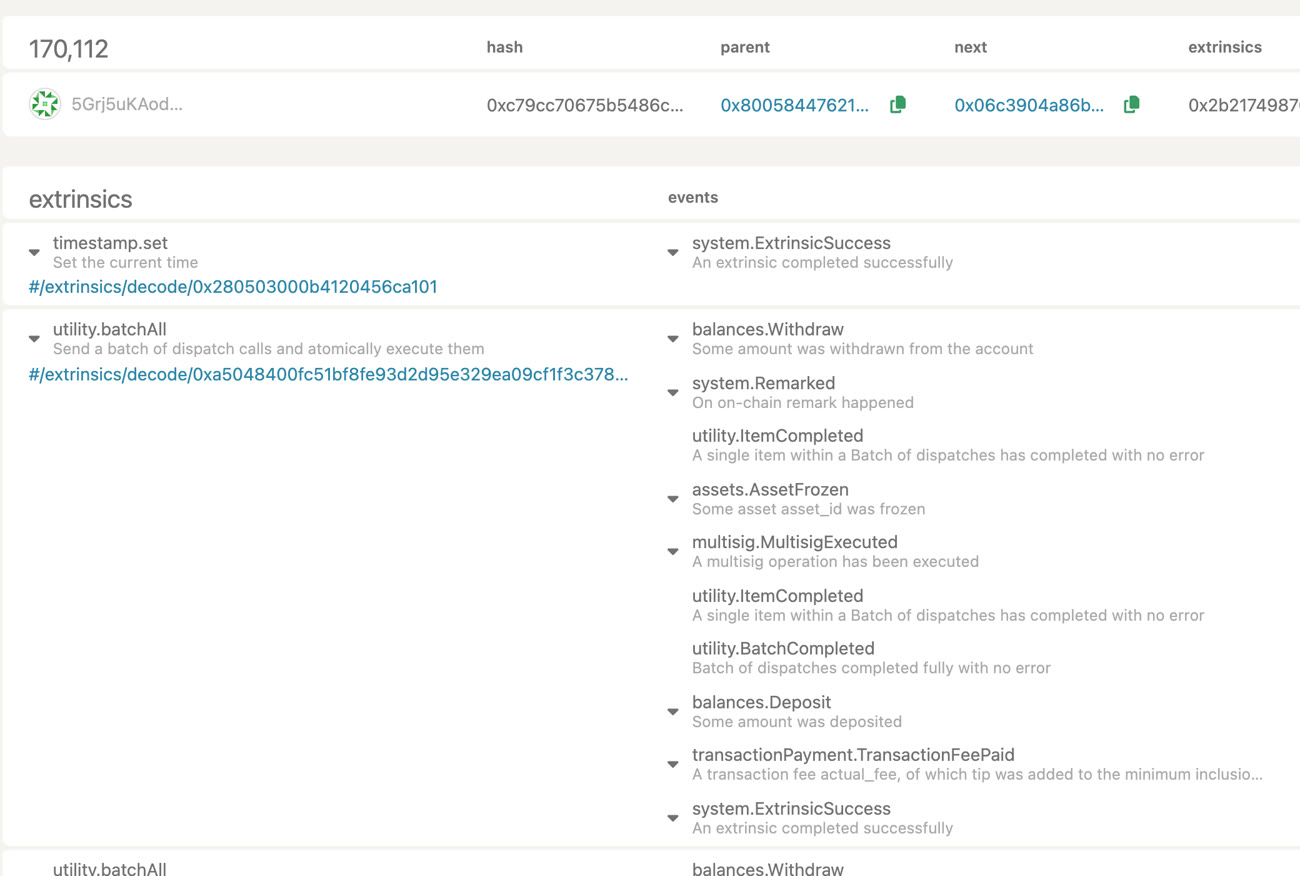
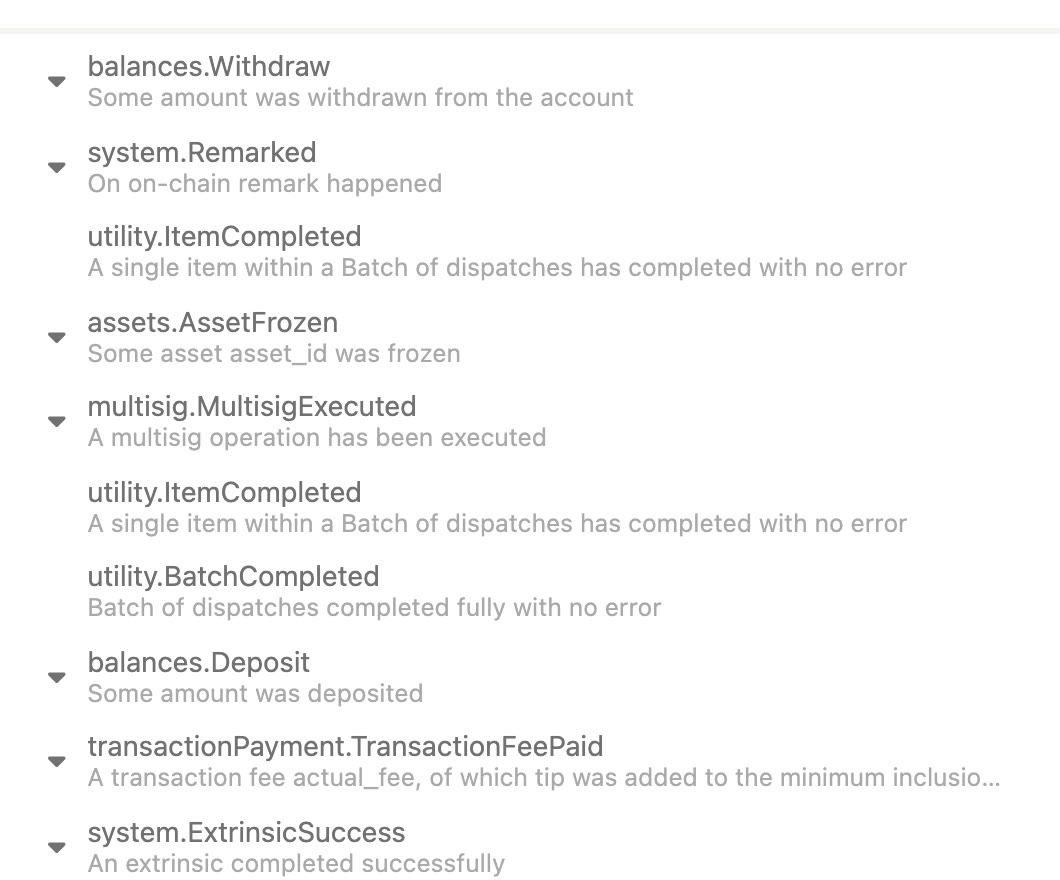
pages: QA pass 2 from main 32086f3

diff --git a/index.html b/index.html
@@ -45,6 +45,7 @@
   --ease: cubic-bezier(.16, 1, .3, 1);
   --short: 76px;      /* the shortfall band: 31.20 of 104.00 drained */
   --ringw: 480px;
+  --bleed: max(0px, calc((100vw - 1240px) / 2 - 12px));
 }
 *, *::before, *::after { box-sizing: border-box; margin: 0; padding: 0; }
 html { background: var(--bg); color: var(--ink); font: 400 17px/1.6 var(--font-body); -webkit-font-smoothing: antialiased;
@@ -65,6 +66,7 @@ code { font-size: .86em; color: var(--ink); overflow-wrap: anywhere; }
 .label { font: 500 12px/1.4 var(--font-data); letter-spacing: .14em; text-transform: uppercase; color: var(--muted); }
 h2 { font: 700 clamp(34px, 4.1vw, 58px)/.98 var(--font-display); text-transform: uppercase; letter-spacing: .005em; text-wrap: balance; }
 h2 em { font-style: normal; color: var(--after); }
+.nw { white-space: nowrap; }
 .lede { max-width: 38em; color: var(--prose); font-size: 19px; margin-top: 18px; }
 
 /* ---------- hull: the hero ---------- */
@@ -101,11 +103,11 @@ h1 em { font-style: normal; color: var(--after); display: inline-block; text-sha
 .fine { margin-top: 10px; font: 400 13px/1.4 var(--font-data); color: var(--muted); }
 .cta { display: flex; flex-wrap: wrap; gap: 12px; margin: 28px 0 18px; }
 .strip { font: 400 13px/1.5 var(--font-data); color: var(--muted); padding-bottom: 30px; }
-.ringbox { position: relative; width: 100%; justify-self: end; }
+.ringbox { position: relative; width: calc(100% + var(--bleed)); margin-right: calc(-1 * var(--bleed)); justify-self: end; }
 .ringbox svg { display: block; width: 100%; height: auto; overflow: visible; }
-.above .ringbox { align-self: stretch; display: flex; flex-direction: column; justify-content: space-between; gap: 28px; padding-top: 58px; }
+.above .ringbox { align-self: stretch; display: flex; flex-direction: column; justify-content: space-between; gap: 28px; padding-top: 44px; }
 .stamp { padding: 4px 0 4px 22px; border-left: 4px solid var(--after); }
-.stamp b { display: block; font: 700 clamp(44px, 4.6vw, 70px)/.95 var(--font-display); color: var(--after); letter-spacing: .02em; text-shadow: 0 0 30px rgba(255,91,46,.28); }
+.stamp b { display: block; font: 700 clamp(44px, 5vw, 78px)/.95 var(--font-display); color: var(--after); letter-spacing: .02em; text-shadow: 0 0 30px rgba(255,91,46,.28); }
 .stamp span { display: block; margin-top: 10px; font: 400 13px/1.5 var(--font-data); color: var(--prose); overflow-wrap: anywhere; }
 .stamp span + span { margin-top: 2px; color: var(--muted); }
 
@@ -136,7 +138,7 @@ h1 em { font-style: normal; color: var(--after); display: inline-block; text-sha
 .mark.res { top: calc(var(--short) + 14px); color: var(--prose); }
 .mark.res b { color: var(--crest); }
 .replay { position: absolute; right: 0; top: calc(var(--short) + 78px); font: 500 12px/1 var(--font-data); letter-spacing: .1em; text-transform: uppercase;
-  color: var(--muted); background: none; border: 1px solid var(--rule); padding: 8px 12px; cursor: pointer; transition: color .2s, border-color .2s; }
+  color: var(--prose); background: none; border: 1px solid var(--rule); padding: 8px 12px; cursor: pointer; transition: color .2s, border-color .2s; }
 .replay:hover { color: var(--ink); border-color: var(--hull); }
 .readings { padding-top: calc(var(--short) + 58px); }
 .readings .label { color: var(--prose); margin-bottom: 22px; }
@@ -147,7 +149,7 @@ h1 em { font-style: normal; color: var(--after); display: inline-block; text-sha
 .rx b i { font-style: normal; }
 .rx b small { font-size: .55em; letter-spacing: .02em; }
 .rx span { display: block; margin-top: 12px; font-size: 14.5px; line-height: 1.45; color: var(--prose); }
-.rx code { display: block; margin-top: 10px; font-size: 11.5px; color: var(--muted); }
+.rx code { display: block; margin-top: 10px; font-size: 11.5px; color: var(--prose); opacity: .85; }
 
 /* the orchestrated load: the water drains, the gate snaps, the line dies, the headline stops */
 @keyframes rise { from { opacity: 0; transform: translateY(14px); } }
@@ -199,7 +201,7 @@ section { position: relative; }
 .frame .bar { display: flex; align-items: center; gap: 8px; padding: 10px 14px; border-bottom: 1px solid var(--rule); font: 400 12px/1.2 var(--font-data); color: var(--muted); min-width: 0; }
 .frame .bar i { width: 10px; height: 10px; border-radius: 50%; background: var(--rule); flex: none; }
 .shot { position: relative; display: block; }
-.shot .hl { position: absolute; left: 51.2%; top: 53.8%; width: 22%; height: 7%; border: 2px solid var(--after); box-shadow: 0 0 0 4px rgba(255,91,46,.18); pointer-events: none; }
+.shot .hl { position: absolute; left: 6%; top: 33.6%; width: 41%; height: 8.8%; border: 2px solid var(--after); box-shadow: 0 0 0 4px rgba(255,91,46,.18); pointer-events: none; }
 .frame .bar span { margin-left: 8px; overflow: hidden; text-overflow: ellipsis; white-space: nowrap; }
 figcaption { margin-top: 12px; font-size: 14px; color: var(--muted); }
 figcaption .trip { color: #FFB49E; font: 500 .92em var(--font-data); }
@@ -237,7 +239,7 @@ figcaption .trip { color: #FFB49E; font: 500 .92em var(--font-data); }
 .card .chip { margin-right: 6px; }
 
 /* ---------- who: the users and the path ---------- */
-.who { padding: 112px 0 104px; background: linear-gradient(180deg, var(--bg), #0A2131); border-top: 1px solid var(--rule); }
+.who { padding: 112px 0 88px; background: linear-gradient(180deg, var(--bg), #0A2131); border-top: 1px solid var(--rule); }
 .users { display: grid; grid-template-columns: repeat(2, minmax(0, 1fr)); gap: 48px; margin-top: 48px; max-width: 1100px; }
 .users p { font-size: 20px; line-height: 1.5; color: var(--prose); max-width: 34em; }
 .users p b { color: var(--ink); }
@@ -249,8 +251,11 @@ figcaption .trip { color: #FFB49E; font: 500 .92em var(--font-data); }
 .path b { display: block; font: 700 24px/1.1 var(--font-display); text-transform: uppercase; letter-spacing: .03em; }
 .path span { display: block; margin-top: 6px; font: 500 12px/1.3 var(--font-data); letter-spacing: .12em; text-transform: uppercase; color: var(--muted); }
 .path p { margin-top: 10px; font-size: 15.5px; line-height: 1.5; color: var(--prose); max-width: 30em; }
-.today { margin-top: 48px; padding-top: 18px; border-top: 1px solid var(--rule); max-width: 70ch; color: var(--prose); }
-.today b { color: var(--ink); }
+.ledger { display: grid; grid-template-columns: repeat(2, minmax(0, 1fr)); margin-top: 56px; border: 1px solid var(--rule); background: rgba(8,27,40,.55); }
+.ledger div { padding: 22px 26px; }
+.ledger div + div { border-left: 1px solid var(--rule); }
+.ledger dt { font: 500 12px/1.3 var(--font-data); letter-spacing: .14em; text-transform: uppercase; color: var(--muted); }
+.ledger dd { margin-top: 8px; font-size: 18px; line-height: 1.5; color: var(--ink); max-width: 36em; }
 
 /* ---------- architecture ---------- */
 .arch { padding: 24px 0 120px; }
@@ -324,6 +329,8 @@ footer p { max-width: 62ch; }
   .pair { grid-template-columns: minmax(0, 1fr); }
   .faq .wrap { grid-template-columns: minmax(0, 1fr); gap: 24px; }
   .users { grid-template-columns: minmax(0, 1fr); gap: 20px; }
+  .ledger { grid-template-columns: minmax(0, 1fr); }
+  .ledger div + div { border-left: 0; border-top: 1px solid var(--rule); }
   .path { grid-template-columns: minmax(0, 1fr); gap: 30px; padding-left: 34px; }
   .path::before { left: 7px; right: auto; top: 0; bottom: 0; width: 2px; height: auto; background: linear-gradient(180deg, var(--before) 0 30%, var(--dead) 30%); }
   .path li { padding: 0; }
@@ -360,6 +367,10 @@ footer p { max-width: 62ch; }
   .quotes blockquote::before { top: 0; }
   .video .play { left: 14px; bottom: 14px; padding: 11px 14px 11px 12px; font-size: 14px; }
   .term pre { min-height: 0; font-size: 12px; }
+  .scrollx { overflow-x: auto; -webkit-overflow-scrolling: touch; }
+  .scrollx > a { display: block; width: 640px; }
+  .arch .scrollx > a { width: 900px; }
+  .stamp span + span + span { display: none; }
 }
 @media (prefers-reduced-motion: reduce) {
   *, *::before, *::after { animation: none !important; transition: none !important; scroll-behavior: auto !important; }
@@ -403,7 +414,7 @@ footer p { max-width: 62ch; }
     <p class="strip a5">Portaldot V3 testnet · 79/79 extrinsics final · re-queried 2026-10-25</p>
    </div>
    <div class="ringbox">
-    <p class="stamp"><b>#170,112</b><span>Assets.AssetFrozen · extrinsic 170112-1 · watcher W2</span><span>BALLAST/1|freeze|a=4401|reason=deficit</span></p>
+    <p class="stamp"><b>#170,112</b><span>Assets.AssetFrozen · extrinsic 170112-1 · watcher W2</span><span>BALLAST/1|freeze|a=4401|reason=deficit</span><span>12.22 s from drain to freeze · wall clock, one machine</span></p>
     <svg viewBox="0 0 460 172" aria-hidden="true">
      <circle cx="180" cy="172" r="150" fill="none" stroke="#6F92A6" stroke-width="20"/>
      <path d="M180 22v18M60 70l12 10M300 70l-12 10" stroke="#1E3D52" stroke-width="3"/>
@@ -483,15 +494,15 @@ footer p { max-width: 62ch; }
 
 <section class="demo" id="demo" aria-labelledby="demo-h">
  <div class="wrap">
-  <h2 id="demo-h">Don't trust this page. <em>Re-query the chain.</em></h2>
+  <h2 id="demo-h">Don't trust this page. <em><span class="nw">Re-query</span> the chain.</em></h2>
   <p class="lede">The block that froze the asset, as Portaldot's own node console shows it, beside a real re-run of the receipt checker against the V3 testnet.</p>
   <div class="pair">
    <figure>
     <div class="frame">
-     <div class="bar"><i></i><i></i><i></i><span>node-console.portaldot.dev · PortaldotV3 Test · block 170,112</span></div>
-     <a class="shot" href="https://node-console.portaldot.dev/?rpc=wss%3A%2F%2Ftest-node-v3.portaldot.dev#/explorer/query/0xc79cc70675b5486c51e0409cc5f74b5d1608ee4f30fc45d5971754c65e39f624"><span class="hl" aria-hidden="true"></span><img src="assets/node-console-170112.jpg" width="1300" height="876" loading="lazy" alt="Portaldot node console, block 170,112 on portaldot-v3/3002: a utility.batchAll extrinsic with system.Remarked, assets.AssetFrozen and multisig.MultisigExecuted events"></a>
+     <div class="bar"><i></i><i></i><i></i><span>node-console.portaldot.dev · block 170,112 · utility.batchAll events</span></div>
+     <div class="scrollx"><a class="shot" href="https://node-console.portaldot.dev/?rpc=wss%3A%2F%2Ftest-node-v3.portaldot.dev#/explorer/query/0xc79cc70675b5486c51e0409cc5f74b5d1608ee4f30fc45d5971754c65e39f624"><span class="hl" aria-hidden="true"></span><img src="assets/node-console-170112.jpg" width="1060" height="880" loading="lazy" alt="Portaldot node console, block 170,112: the events of its utility.batchAll extrinsic, system.Remarked, assets.AssetFrozen and multisig.MultisigExecuted"></a></div>
     </div>
-    <figcaption>Block 170,112 on <code>portaldot-v3</code>/3002: <code>system.Remarked</code>, <b class="trip">assets.AssetFrozen</b> (outlined), <code>multisig.MultisigExecuted</code> in one <code>utility.batchAll</code>. Captured 2026-10-24.</figcaption>
+    <figcaption>The events of block 170,112's <code>utility.batchAll</code>: <code>system.Remarked</code>, <b class="trip">assets.AssetFrozen</b> (outlined), <code>multisig.MultisigExecuted</code>. Block 170,112 is from the 2026-10-24 drill; screenshot of Portaldot's node console.</figcaption>
    </figure>
    <figure class="term">
     <div class="frame">
@@ -533,15 +544,16 @@ footer p { max-width: 62ch; }
      <span class="chip">Multisig.as_multi_threshold_1</span><span class="chip">Assets.freeze_asset</span>
      </div>
     </div>
-    <svg class="mini" viewBox="0 0 220 200" aria-hidden="true">
+    <svg class="mini" viewBox="0 0 250 200" aria-hidden="true">
      <defs><clipPath id="mc"><circle cx="100" cy="100" r="74"/></clipPath></defs>
      <rect x="20" y="128" width="160" height="80" fill="#3FD9B5" opacity=".55" clip-path="url(#mc)"/>
      <rect x="20" y="126" width="160" height="3" fill="#B8FFEC" clip-path="url(#mc)"/>
      <circle cx="100" cy="100" r="74" fill="none" stroke="#6F92A6" stroke-width="12"/>
-     <path d="M8 100h170" stroke="#F4F1E6" stroke-width="10"/><path d="M190 100h30" stroke="#3B5568" stroke-width="10"/>
+     <path d="M8 100h170" stroke="#F4F1E6" stroke-width="10"/><path d="M190 100h56" stroke="#3B5568" stroke-width="10"/>
      <rect x="178" y="70" width="10" height="60" fill="#FF5B2E"/>
-     <text x="8" y="92" font-family="Red Hat Mono, monospace" font-size="11" fill="#9AB0BE">104.00</text>
-     <text x="8" y="146" font-family="Red Hat Mono, monospace" font-size="11" fill="#B8FFEC">72.80</text>
+     <text x="196" y="88" font-family="Red Hat Mono, monospace" font-size="12" fill="#F4F1E6">104.00</text>
+     <text x="196" y="146" font-family="Red Hat Mono, monospace" font-size="12" fill="#B8FFEC">72.80</text>
+     <path d="M182 127h10" stroke="#B8FFEC" stroke-width="2"/>
     </svg>
    </article>
    <article class="card mid">
@@ -573,7 +585,8 @@ footer p { max-width: 62ch; }
 
 <section class="who" id="who" aria-labelledby="who-h">
  <div class="wrap">
-  <h2 id="who-h">Who needs a load line</h2>
+  <p class="label">Users and model · steps 2 and 3 are plans</p>
+  <h2 id="who-h" style="margin-top:18px">Who needs a load line</h2>
   <div class="users">
    <p><b>The first issuer of a dollar on Portaldot</b>, who needs a safety layer it can show, and that the ecosystem can require of any issuer.</p>
    <p><b>The dApp builder</b> deciding whether checkout may accept that dollar, who must tell users why it is safe.</p>
@@ -583,16 +596,16 @@ footer p { max-width: 62ch; }
    <li><b>Sepolia reserve</b><span>plan</span><p><code>ReserveVault</code> with 100.00 test USDC; a watcher on separate infrastructure.</p></li>
    <li><b>A real issuer</b><span>plan</span><p>Watcher and attester keys held by parties other than the issuer; community-watcher mode.</p></li>
   </ol>
-  <p class="today"><b>Funding (plan):</b> an ecosystem grant to reach a Sepolia-backed deployment with outside watchers. <b>Today:</b> no external users and no revenue.</p>
+  <dl class="ledger"><div><dt>Funding · plan</dt><dd>An ecosystem grant to reach a Sepolia-backed deployment with outside watchers.</dd></div><div><dt>Today</dt><dd>No external users and no revenue. One person holds every key.</dd></div></dl>
  </div>
 </section>
 
 <section class="arch" aria-labelledby="arch-h">
  <div class="wrap">
   <h2 id="arch-h">Where each piece runs</h2>
-  <p class="lede">Follow steps 1 to 5: the drain on the reserve chain, the watchdog reading it, the freeze through <code>M_watch</code>, and the holder's refused transfer.</p>
+  <p class="lede">Follow steps 1 to 5: the drain on the reserve chain (1), the watchdog reading it (2), W2's batch to <code>M_watch</code> (3), the freeze on asset 4401 (4), and the holder's refused transfer (5).</p>
   <figure>
-   <a href="architecture.png"><img src="architecture.png" width="2560" height="2546" loading="lazy" alt="Ballast architecture: a vault drain on local anvil is read by the watchdog, whose watcher key freezes asset 4401 through M_watch on the Portaldot V3 testnet, so the holder's transfer is refused"></a>
+   <div class="scrollx"><a href="architecture.png"><img src="architecture.png" width="2560" height="2546" loading="lazy" alt="Ballast architecture: a vault drain on local anvil is read by the watchdog, whose watcher key freezes asset 4401 through M_watch on the Portaldot V3 testnet, so the holder's transfer is refused"></a></div>
    <figcaption><span>Solid: the Portaldot V3 runtime enforces. Dashed: off-chain processes. Bottom: the reserve chain (local anvil, NOT Sepolia).</span><a href="architecture.png">Open full size ↗</a></figcaption>
   </figure>
  </div>

diff --git a/deck/index.html b/deck/index.html
@@ -47,7 +47,7 @@ a:focus-visible { outline: 3px solid var(--crest); outline-offset: 4px; }
 /* the hull: night water, faint plate seams */
 .slide { position: absolute; inset: 0; display: none; overflow: hidden; background-color: var(--bg);
   background-image: radial-gradient(circle at 50% 50%, rgba(111,146,166,.30) 2px, transparent 2.8px),
-    linear-gradient(90deg, var(--rule) 2px, transparent 2px), linear-gradient(var(--rule) 2px, transparent 2px),
+    linear-gradient(90deg, rgba(30,61,82,.6) 2px, transparent 2px), linear-gradient(rgba(30,61,82,.6) 2px, transparent 2px),
     radial-gradient(90% 60% at 80% 110%, rgba(63,217,181,.09), transparent 60%);
   background-size: 30px 360px, 480px 100%, 100% 360px, 100% 100%; background-position: 0 -54px, 168px 0, 0 -68px, 0 0;
   -webkit-print-color-adjust: exact; print-color-adjust: exact; }
@@ -73,7 +73,7 @@ a:focus-visible { outline: 3px solid var(--crest); outline-offset: 4px; }
 .hd { position: absolute; left: 200px; top: 104px; width: 1560px; z-index: 2; }
 .eb { font: 600 20px/1 var(--font-body); letter-spacing: .2em; text-transform: uppercase; color: var(--muted); }
 h2 { margin-top: 22px; white-space: nowrap; font: 700 88px/1 var(--font-display); text-transform: uppercase; letter-spacing: .01em; color: var(--ink); }
-.lede { font: 400 30px/1.4 var(--font-body); color: var(--ink); }
+.lede { font: 400 30px/1.4 var(--font-body); color: var(--ink); text-wrap: pretty; }
 .small { font: 400 20px/1.45 var(--font-body); color: var(--muted); }
 code, .mono { font-family: var(--font-data); font-weight: 500; }
 .lvl { color: var(--before); }
@@ -166,15 +166,15 @@ h2 em.lv { color: var(--crest); text-shadow: 0 0 30px rgba(184,255,236,.22); }
 .s6 .band { position: absolute; left: 200px; width: 1620px; }
 .s6 .band > .eb { position: absolute; left: 0; top: 0; font-size: 17px; }
 .s6 .box { position: absolute; padding: 12px 16px 12px; border: 2px solid var(--hull); background: var(--bg); }
-.s6 .box b { display: block; font: 600 22px/1.2 var(--font-body); color: var(--ink); }
-.s6 .box span { display: block; margin-top: 5px; font: 400 18px/1.3 var(--font-body); color: var(--muted); }
+.s6 .box b { display: block; font: 600 23px/1.2 var(--font-body); color: var(--ink); }
+.s6 .box span { display: block; margin-top: 5px; font: 400 18px/1.3 var(--font-body); color: var(--prose); }
 .s6 .box code { font-size: 17px; color: var(--ink); }
 .s6 .box.asset { border-color: var(--ink); border-width: 3px; }
 .s6 .box.watch { border-left: 8px solid var(--ink); }
 .s6 .box.off { border-style: dashed; }
 .s6 .wire { position: absolute; width: 0; border-left: 3px solid var(--hull); }
 .s6 .wire.dash { border-left-style: dashed; }
-.s6 .wire em { position: absolute; left: 12px; top: 50%; transform: translateY(-50%); white-space: nowrap; font: 500 17px/1.2 var(--font-data); font-style: normal; color: var(--muted); }
+.s6 .wire em { position: absolute; left: 12px; top: 50%; transform: translateY(-50%); white-space: nowrap; font: 500 18px/1.2 var(--font-data); font-style: normal; color: var(--prose); }
 .s6 .legend { position: absolute; right: 0; top: 0; font: 400 17px/1 var(--font-body); color: var(--muted); }
 .s6 .sea { position: absolute; left: 200px; width: 1620px; top: 836px; height: 0; border-top: 3px dashed var(--hull); }
 .s6 .sea span { position: absolute; right: 0; top: -30px; font: 500 15px/1 var(--font-body); letter-spacing: .14em; text-transform: uppercase; color: var(--muted); }
@@ -375,7 +375,7 @@ body.debug-contrast .contrast-check, body.debug-contrast .slide :is(h1, h2, h3, 
     <li class="hot"><span class="id"><a href="https://node-console.portaldot.dev/?rpc=wss%3A%2F%2Ftest-node-v3.portaldot.dev#/explorer/query/0xc79cc70675b5486c51e0409cc5f74b5d1608ee4f30fc45d5971754c65e39f624">170112-1</a><small>V3 · watcher W2</small></span><span class="ev"><code>M_watch</code> freezes asset 4401 <span class="out">(<code>Assets.freeze_asset</code>, Ok)</span>. The reason rides in the same extrinsic:
       <span class="remark">BALLAST/1|<wbr>freeze|<wbr>a=4401|<wbr>reason=deficit|<wbr>s=104000000|<wbr>r=72800000|<wbr>p=anvil|<wbr>eb=1622|<wbr>eh=0x3987686a…</span></span></li>
     <li class="hot"><span class="id"><a href="https://node-console.portaldot.dev/?rpc=wss%3A%2F%2Ftest-node-v3.portaldot.dev#/explorer/query/0xe6ca737bce559f4a85450656e1d6ef9e315526bb3258202fd7d28c9107f21bb2">170114-1</a><small>V3 · a holder</small></span><span class="ev"><code>Assets.transfer</code> 1.00 → <code class="out">Err(Assets.AssetNotLive)</code></span></li>
-    <li><span class="id"><a href="https://node-console.portaldot.dev/?rpc=wss%3A%2F%2Ftest-node-v3.portaldot.dev#/explorer/query/0x4fabb599f4c828fdd8055d3e1a904ea08a70d29a7b0593201bee1a46374f341d">170115-1</a><small>V3 · watcher W1</small></span><span class="ev">A watcher tries <code>thaw_asset</code> → <code>Err(Assets.NoPermission)</code>: the freezer cannot undo its own freeze.</span></li>
+    <li><span class="id"><a href="https://node-console.portaldot.dev/?rpc=wss%3A%2F%2Ftest-node-v3.portaldot.dev#/explorer/query/0x4fabb599f4c828fdd8055d3e1a904ea08a70d29a7b0593201bee1a46374f341d">170115-1</a><small>V3 · watcher W1</small></span><span class="ev">A watcher tries <code>thaw_asset</code> → <code>Err(Assets.NoPermission)</code>: the freezer role cannot thaw what it froze.</span></li>
   </ol>
   <aside class="speaker-notes">This is the moment. The custodian pulled 31.20 out of the 104.00 in the vault. Watcher W2 saw the deficit and froze asset 4401 on V3, and wrote why into the same extrinsic. Two blocks later a holder's transfer was refused by the runtime, and the other watcher could not thaw it.</aside>
 </section>
@@ -411,7 +411,7 @@ body.debug-contrast .contrast-check, body.debug-contrast .slide :is(h1, h2, h3, 
     <li><a class="mono" href="https://node-console.portaldot.dev/?rpc=wss%3A%2F%2Ftest-node-v3.portaldot.dev#/explorer/query/0xb82d68a566fac58fefe36d0c30638a84f00bb353499b65316d05c01f87057724">170156-1</a><span>safe <code>set_team</code>, co-signed</span></li>
   </ul>
   <div class="tot">
-    <div><b>79/79</b><span>V3 extrinsics in 8 runs (4 ERROR runs kept as history), all final ≤ #170291</span></div>
+    <div><b>79/79</b><span>V3 extrinsics in 8 runs (4 ERROR runs kept as history), all final ≤ #170291 on 2026-10-24</span></div>
     <div><b>22/22</b><span>role drill steps, 20/20 state checks</span></div>
     <div><b>15/15</b><span>attestation drill steps, 6/6 checks</span></div>
     <div><b>16/16</b><span>role setup steps, 6/6 checks</span></div>
@@ -481,7 +481,7 @@ body.debug-contrast .contrast-check, body.debug-contrast .slide :is(h1, h2, h3, 
     <li><b>Multisig</b><div><code>as_multi</code> · <code>as_multi_threshold_1</code> · <code>cancel_as_multi</code><span>three role multisigs: 2-of-2, 2-of-3, 1-of-2</span></div></li>
     <li><b>Utility</b><div><code>batch_all</code><span>the freeze and its reason remark land as one extrinsic</span></div></li>
     <li><b>System</b><div><code>remark_with_event</code><span><code>BALLAST/1</code> attestations, heartbeats, freeze reasons</span></div></li>
-    <li><b>Revive</b><div><code>instantiate_with_code</code> · <code>call</code><span><code>ReserveOracle</code> on V3 (deployed in 169960-1) exposes <code>isBacked(maxAge)</code> to EVM dApps; called on the stand-in, not yet on V3</span></div></li>
+    <li><b>Revive</b><div><code>instantiate_with_code</code> · <code>call</code><span><code>ReserveOracle</code> on V3 (deployed in 169960-1) exposes <code>isBacked(maxAge)</code> to EVM dApps; <code>post()</code> mirrors ran on V3, the <code>isBacked</code> read only on the stand-in</span></div></li>
   </ul>
   <div class="pin">
     <span class="label">Pinned to the live chain</span>
